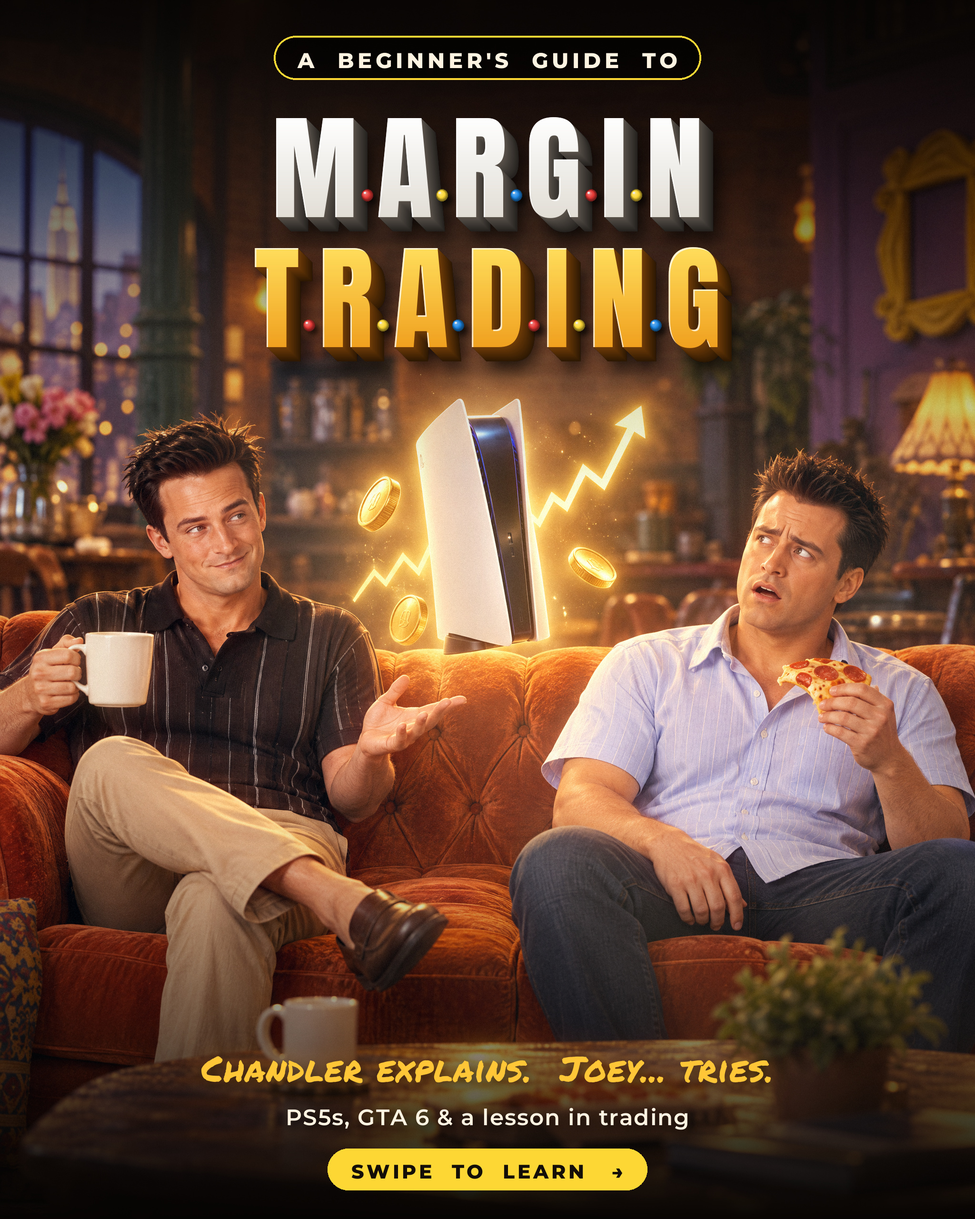
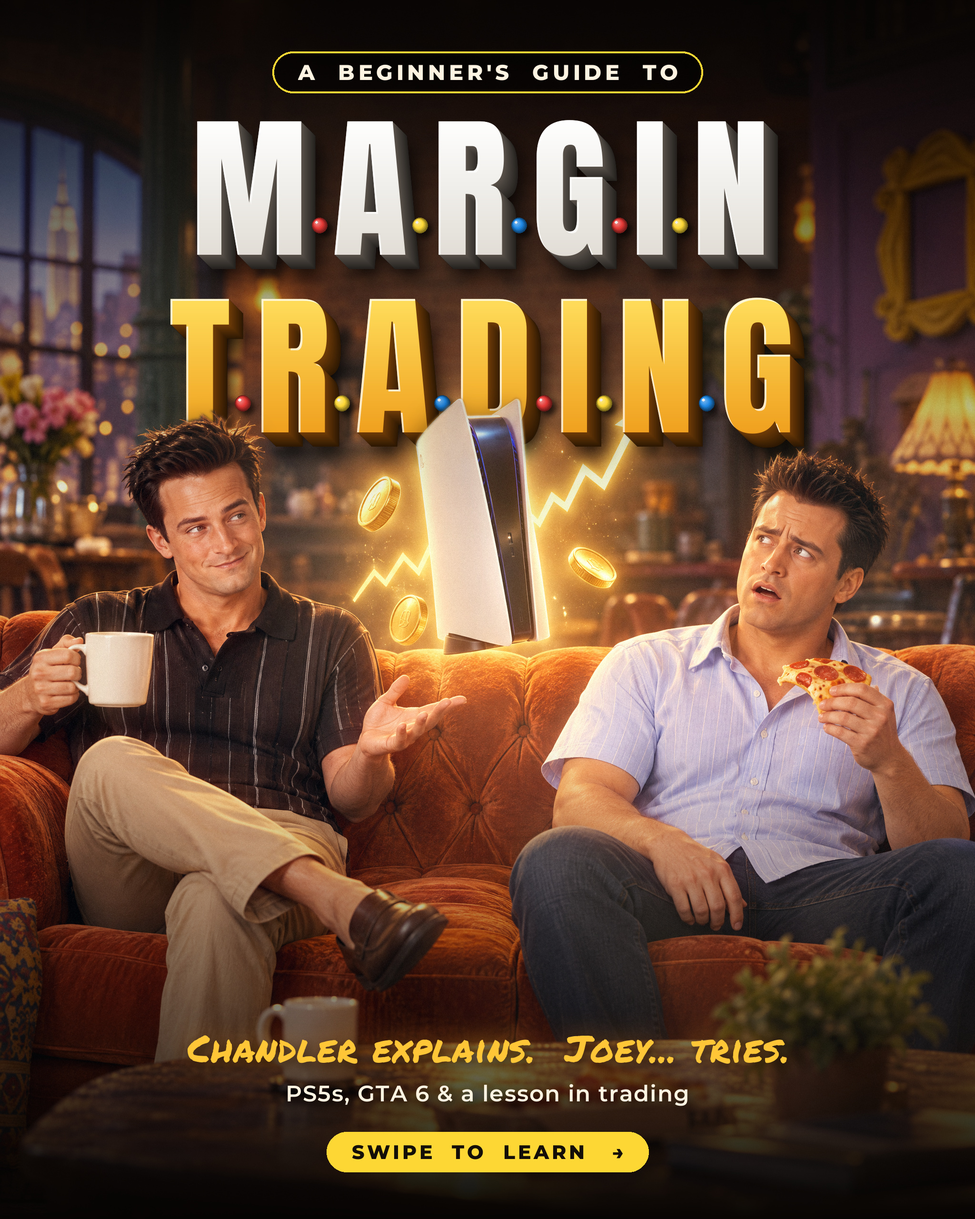
Cover: masking text behind subject and ink-based alignment
Subject cut-out (BiRefNet via rembg) is composited over the headline so
the console overlaps TRADING; all text is centred on its ink box,
headline auto-fits between equal top/bottom margins, overlap-checked.

Claude-Session: https://claude.ai/code/session_01Kuiw8abgmRFhLJw1mYsYfK

diff --git a/carousel/finish.py b/carousel/finish.py
@@ -98,11 +98,27 @@ def scrims(img: Image.Image, top_frac=0.40, top_alpha=235, bot_frac=0.34, bot_al
 
 
 # ----------------------------------------------------------------- text
+def subject_mask(raw_path):
+    """Foreground (characters + props) mask, cached next to the raw render."""
+    raw_path = Path(raw_path)
+    cache = raw_path.with_name(raw_path.stem + "_mask.png")
+    if not cache.exists():
+        from rembg import new_session, remove
+        im = Image.open(raw_path).convert("RGB")
+        remove(im, session=new_session("birefnet-general"), only_mask=True).save(cache)
+    return Image.open(cache).convert("L")
+
+
 class Canvas:
-    def __init__(self, img):
-        self.base = img.convert("RGBA")
-        self.W, self.H = self.base.size
+    """Two text planes: `behind` (occluded by the subject = masking text) and `front`."""
+
+    def __init__(self, img, subject=None):
+        self.bg = img.convert("RGBA")
+        self.W, self.H = self.bg.size
         self.s = self.W / 1080  # design grid is 1080 wide
+        self.behind = Image.new("RGBA", self.bg.size, (0, 0, 0, 0))
+        self.front = Image.new("RGBA", self.bg.size, (0, 0, 0, 0))
+        self.subject = subject
         self.boxes = []  # placed text boxes, to assert no overlaps
 
     def font(self, path, size, wght=None):
@@ -117,99 +133,112 @@ class Canvas:
                 raise RuntimeError(f"text overlap: {label!r} hits {l!r}")
         self.boxes.append((box, label))
 
-    def _paste(self, layer):
-        self.base = Image.alpha_composite(self.base, layer)
+    def _paste(self, layer, plane):
+        setattr(self, plane, Image.alpha_composite(getattr(self, plane), layer))
 
-    # -- flat text with soft shadow ---------------------------------
-    def text(self, y, txt, font, fill, tracking=0, shadow=0.8, label=None, glow=None):
-        W, s = self.W, self.s
-        widths = [font.getlength(c) for c in txt]
-        total = sum(widths) + tracking * (len(txt) - 1)
-        x0 = (W - total) / 2
-        lay = Image.new("RGBA", self.base.size, (0, 0, 0, 0))
-        d = ImageDraw.Draw(lay)
-        x = x0
-        for c, w in zip(txt, widths):
-            d.text((x, y), c, font=font, fill=fill)
-            x += w + tracking
-        bbox = lay.getbbox()
-        self._claim(bbox, label or txt)
-        a = lay.getchannel("A")
-        if shadow:
-            sh = Image.new("RGBA", self.base.size, (0, 0, 0, 0))
-            sh.putalpha(a.filter(ImageFilter.GaussianBlur(6 * s)).point(lambda v: int(v * shadow)))
-            sh = ImageChops.offset(sh, int(3 * s), int(4 * s))
-            self._paste(sh)
-        if glow:
-            gl = Image.new("RGBA", self.base.size, glow + (0,))
-            gl.putalpha(a.filter(ImageFilter.GaussianBlur(14 * s)).point(lambda v: int(v * 0.55)))
-            self._paste(gl)
-        self._paste(lay)
-        return bbox
+    def _shift(self, im, dx, dy):
+        out = Image.new(im.mode, im.size, 0)
+        out.paste(im, (int(round(dx)), int(round(dy))))
+        return out
 
-    # -- extruded 3D headline ---------------------------------------
-    def title3d(self, y, txt, font, face_top, face_bot, side, tracking=0, dots=True,
-                depth=16, label=None):
-        W, s = self.W, self.s
-        dot_gap = font.size * 0.15 if dots else 0
-        widths = [font.getlength(c) for c in txt]
-        total = sum(widths) + (len(txt) - 1) * (tracking + dot_gap)
-        x = (W - total) / 2
-        mask = Image.new("L", self.base.size, 0)
-        dm = ImageDraw.Draw(mask)
-        dot_specs = []
+    def _glyph_mask(self, txt, font, tracking, dot_gap=0, dots=False):
+        """Render text at origin; return mask, dot centres, ink bbox."""
+        m = Image.new("L", self.bg.size, 0)
+        d = ImageDraw.Draw(m)
+        x, specs = 0.0, []
         asc, _ = font.getmetrics()
-        for i, (c, w) in enumerate(zip(txt, widths)):
-            dm.text((x, y), c, font=font, fill=255)
-            x += w
+        pad = self.H * 0.25  # keep ascenders inside the canvas
+        for i, c in enumerate(txt):
+            d.text((x, pad), c, font=font, fill=255)
+            x += font.getlength(c)
             if i < len(txt) - 1:
                 if dots and c != " " and txt[i + 1] != " ":
-                    dot_specs.append((x + (tracking + dot_gap) / 2, y + asc * 0.84, DOTS[i % 3]))
+                    specs.append([x + (tracking + dot_gap) / 2, pad + asc * 0.84, DOTS[i % 3]])
                 x += tracking + dot_gap
-        bbox = mask.getbbox()
+        return m, specs, m.getbbox()
+
+    # -- measuring helpers (for layout) ------------------------------
+    def ink_height(self, txt, font, tracking=0):
+        _, _, b = self._glyph_mask(txt, font, tracking)
+        return b[3] - b[1]
+
+    # -- flat text with soft shadow ---------------------------------
+    def text(self, top, txt, font, fill, tracking=0, shadow=0.85, label=None, glow=None,
+             plane="front"):
+        """Draw text whose INK top sits at `top`, centred on its ink box."""
+        s = self.s
+        m, _, b = self._glyph_mask(txt, font, tracking)
+        dx = (self.W - (b[2] - b[0])) / 2 - b[0]
+        dy = top - b[1]
+        m = self._shift(m, dx, dy)
+        box = m.getbbox()
+        self._claim(box, label or txt)
+        if shadow:
+            sh = Image.new("RGBA", self.bg.size, (0, 0, 0, 0))
+            sh.putalpha(self._shift(m, 3 * s, 4 * s).filter(ImageFilter.GaussianBlur(6 * s))
+                        .point(lambda v: int(v * shadow)))
+            self._paste(sh, plane)
+        if glow:
+            gl = Image.new("RGBA", self.bg.size, glow + (0,))
+            gl.putalpha(m.filter(ImageFilter.GaussianBlur(14 * s)).point(lambda v: int(v * 0.5)))
+            self._paste(gl, plane)
+        face = Image.new("RGBA", self.bg.size, fill + (0,))
+        face.putalpha(m)
+        self._paste(face, plane)
+        return box
+
+    # -- extruded 3D headline ---------------------------------------
+    def title3d(self, top, txt, font, face_top, face_bot, side, tracking=0, dots=True,
+                depth=16, label=None, plane="behind"):
+        """3D headline: face ink top at `top`; face+extrusion mass centred horizontally."""
+        W, s = self.W, self.s
+        dot_gap = font.size * 0.15 if dots else 0
+        mask, specs, b = self._glyph_mask(txt, font, tracking, dot_gap, dots)
         dep = int(depth * s)
+        dx = (W - (b[2] - b[0] + dep)) / 2 - b[0]
+        dy = top - b[1]
+        mask = self._shift(mask, dx, dy)
+        for sp in specs:
+            sp[0] += dx
+            sp[1] += dy
+        bbox = mask.getbbox()
         self._claim((bbox[0], bbox[1], bbox[2] + dep, bbox[3] + dep), label or txt)
 
-        # Ground shadow
-        sh = Image.new("RGBA", self.base.size, (0, 0, 0, 0))
-        sh.putalpha(ImageChops.offset(mask, int(dep * 1.2), int(dep * 1.6))
+        sh = Image.new("RGBA", self.bg.size, (0, 0, 0, 0))
+        sh.putalpha(self._shift(mask, dep * 1.2, dep * 1.6)
                     .filter(ImageFilter.GaussianBlur(10 * s)).point(lambda v: int(v * 0.85)))
-        self._paste(sh)
+        self._paste(sh, plane)
 
-        # Extrusion: stacked offset copies, darkening towards the back
-        ext = Image.new("RGBA", self.base.size, (0, 0, 0, 0))
+        ext = Image.new("RGBA", self.bg.size, (0, 0, 0, 0))
         for k in range(dep, 0, -1):
             t = k / dep
             col = tuple(int(c * (0.30 + 0.45 * (1 - t))) for c in side) + (255,)
-            ext.paste(Image.new("RGBA", self.base.size, col), (0, 0), ImageChops.offset(mask, k, k))
-        self._paste(ext)
+            ext.paste(Image.new("RGBA", self.bg.size, col), (0, 0), self._shift(mask, k, k))
+        self._paste(ext, plane)
 
-        # Face: vertical gradient
-        top, bot = bbox[1], bbox[3]
+        top_y, bot_y = bbox[1], bbox[3]
         grad = np.zeros((self.H, 1, 3), np.float32)
-        yy = np.clip((np.arange(self.H) - top) / max(1, bot - top), 0, 1)[:, None]
+        yy = np.clip((np.arange(self.H) - top_y) / max(1, bot_y - top_y), 0, 1)[:, None]
         grad[:, 0, :] = np.array(face_top) * (1 - yy) + np.array(face_bot) * yy
         face = Image.fromarray(np.repeat(grad, W, 1).astype(np.uint8)).convert("RGBA")
         face.putalpha(mask)
-        self._paste(face)
+        self._paste(face, plane)
 
-        # Bevel highlight on the top-left edges
-        edge = ImageChops.subtract(mask, ImageChops.offset(mask, int(2 * s), int(2 * s)))
-        hl = Image.new("RGBA", self.base.size, (255, 255, 255, 0))
+        edge = ImageChops.subtract(mask, self._shift(mask, 2 * s, 2 * s))
+        hl = Image.new("RGBA", self.bg.size, (255, 255, 255, 0))
         hl.putalpha(edge.point(lambda v: int(v * 0.75)))
-        self._paste(hl)
+        self._paste(hl, plane)
 
-        # Glossy 3D sphere dots
-        lay = Image.new("RGBA", self.base.size, (0, 0, 0, 0))
+        # Glossy sphere dots
+        lay = Image.new("RGBA", self.bg.size, (0, 0, 0, 0))
         d = ImageDraw.Draw(lay)
-        dsh = Image.new("RGBA", self.base.size, (0, 0, 0, 0))
+        dsh = Image.new("RGBA", self.bg.size, (0, 0, 0, 0))
         sd = ImageDraw.Draw(dsh)
         r = font.size * 0.05
-        for cx, cy, col in dot_specs:
+        for cx, cy, col in specs:
             dark = tuple(int(c * 0.45) for c in col)
             o = dep * 0.3
             sd.ellipse([cx - r + o, cy - r + o, cx + r + o, cy + r + o], fill=(0, 0, 0, 170))
-            # Shaded sphere: concentric discs drifting toward the top-left light
             steps = 14
             for k in range(steps):
                 t = k / (steps - 1)
@@ -223,59 +252,108 @@ class Canvas:
             hr = r * 0.16
             d.ellipse([cx - r * 0.42 - hr, cy - r * 0.42 - hr, cx - r * 0.42 + hr, cy - r * 0.42 + hr],
                       fill=(255, 255, 255, 235))
-        self._paste(dsh.filter(ImageFilter.GaussianBlur(3 * s)))
-        self._paste(lay)
-        return bbox
+        self._paste(dsh.filter(ImageFilter.GaussianBlur(3 * s)), plane)
+        self._paste(lay, plane)
+        return (bbox[0], bbox[1], bbox[2] + dep, bbox[3] + dep)
 
     # -- pill (rounded tag behind small text) -------------------------
-    def pill(self, y, txt, font, fg, bg, border, pad=(26, 12), tracking=0, label=None):
+    def pill(self, top, txt, font, fg, bg, border, pad=(28, 14), tracking=0, label=None,
+             plane="front"):
+        """Pill whose OUTER top is `top`; text optically centred inside by ink box."""
         s = self.s
-        w = sum(font.getlength(c) for c in txt) + tracking * (len(txt) - 1)
-        asc, desc = font.getmetrics()
+        m, _, b = self._glyph_mask(txt, font, tracking)
+        tw, th = b[2] - b[0], b[3] - b[1]
         pw, ph = pad[0] * s, pad[1] * s
-        x0 = (self.W - w) / 2 - pw
-        box = (int(x0), int(y), int(x0 + w + 2 * pw), int(y + asc + desc * 0.2 + 2 * ph))
+        box = (round((self.W - tw) / 2 - pw), round(top),
+               round((self.W + tw) / 2 + pw), round(top + th + 2 * ph))
         self._claim(box, label or txt)
-        lay = Image.new("RGBA", self.base.size, (0, 0, 0, 0))
-        d = ImageDraw.Draw(lay)
-        d.rounded_rectangle(box, radius=(box[3] - box[1]) / 2, fill=bg, outline=border, width=max(2, int(2.5 * s)))
-        x = x0 + pw
-        for c in txt:
-            d.text((x, y + ph), c, font=font, fill=fg)
-            x += font.getlength(c) + tracking
-        self._paste(lay)
-        self.boxes.pop()  # text drawn inside the pill shares its box
-        self.boxes.append((box, label or txt))
+        lay = Image.new("RGBA", self.bg.size, (0, 0, 0, 0))
+        ImageDraw.Draw(lay).rounded_rectangle(box, radius=(box[3] - box[1]) / 2, fill=bg,
+                                              outline=border, width=max(2, int(2.5 * s)))
+        self._paste(lay, plane)
+        m = self._shift(m, (self.W - tw) / 2 - b[0], top + ph - b[1])
+        face = Image.new("RGBA", self.bg.size, fg + (0,))
+        face.putalpha(m)
+        self._paste(face, plane)
         return box
 
+    def render(self):
+        out = Image.alpha_composite(self.bg, self.behind)
+        if self.subject is not None:
+            s = self.s
+            # Soft contact shadow of the subject falling onto the masked text
+            text_a = np.asarray(self.behind.getchannel("A"), np.float32) / 255
+            sub = self._shift(self.subject, -6 * s, 10 * s).filter(ImageFilter.GaussianBlur(14 * s))
+            sh_a = (np.asarray(sub, np.float32) / 255) * text_a * 0.55
+            sh = Image.new("RGBA", self.bg.size, (0, 0, 0, 0))
+            sh.putalpha(Image.fromarray((sh_a * 255).astype(np.uint8)))
+            out = Image.alpha_composite(out, sh)
+            # Subject back on top of the text (feathered edge)
+            fg = self.bg.copy()
+            fg.putalpha(self.subject.filter(ImageFilter.GaussianBlur(1.2 * s)))
+            out = Image.alpha_composite(out, fg)
+        return Image.alpha_composite(out, self.front)
+
     def save(self, out):
-        self.base.convert("RGB").save(out, quality=95, subsampling=0)
+        self.render().convert("RGB").save(out, quality=95, subsampling=0)
 
 
 # ----------------------------------------------------------------- slides
 def cover(raw, out):
-    img = Image.open(raw)
-    img = grade(img)
-    img = scrims(img, top_frac=0.42, top_alpha=240, bot_frac=0.34, bot_alpha=252)
-    c = Canvas(img)
-    s, H = c.s, c.H
+    subject = subject_mask(raw)
+    img = grade(Image.open(raw))
+    img = scrims(img, top_frac=0.46, top_alpha=240, bot_frac=0.40, bot_alpha=252)
+    c = Canvas(img, subject)
+    s, W, H = c.s, c.W, c.H
 
-    c.pill(40 * s, "A  BEGINNER'S  GUIDE  TO", c.font(MONT, 24, 800),
-           fg=CREAM, bg=(0, 0, 0, 150), border=YELLOW + (255,), tracking=4 * s, label="kicker")
-    c.title3d(90 * s, "MARGIN", c.font(ANTON, 128), face_top=(255, 255, 255),
-              face_bot=(226, 222, 214), side=(120, 110, 100), tracking=2 * s)
-    c.title3d(234 * s, "TRADING", c.font(ANTON, 128), face_top=(255, 222, 92),
-              face_bot=(240, 160, 30), side=(150, 80, 10), tracking=2 * s)
+    f_kick = c.font(MONT, 24, 800)
+    DEPTH = 16
+    gap = 30 * s  # identical rhythm between stacked headline rows
+    TOP_MARGIN = 56 * s
 
-    # Bottom block, over the black gradient
-    c.text(H - 196 * s, "Chandler explains.  Joey... tries.", c.font(MARKER, 40), GOLD,
-           tracking=0.5 * s, label="tagline", glow=(255, 150, 40))
-    c.text(H - 128 * s, "PS5s, GTA 6 & a lesson in trading", c.font(MONT, 25, 600), CREAM,
-           tracking=1 * s, label="sub")
-    c.pill(H - 78 * s, "SWIPE  TO  LEARN   →", c.font(MONT, 22, 800),
-           fg=(20, 14, 8), bg=YELLOW + (255,), border=YELLOW + (255,), tracking=3 * s, label="swipe")
+    # Subject top = highest foreground pixel in the centre band
+    sub_np = np.asarray(subject) > 128
+    rows = np.where(sub_np[:, int(W * 0.25):int(W * 0.75)].any(1))[0]
+    subject_top = rows[0]
+    kicker_h = c.ink_height("A BEGINNER'S GUIDE TO", f_kick) + 2 * 14 * s
+
+    # Auto-fit: largest headline whose stack fits between the top margin and the
+    # subject (subject covers the lower ~26% of TRADING = masking text), and whose
+    # width keeps a 72px side margin.
+    for size in range(190, 100, -2):
+        f_title = c.font(ANTON, size)
+        cap = c.ink_height("TRADING", f_title, 2 * s)
+        trading_top = subject_top - cap * 0.74
+        margin_top = trading_top - DEPTH * s - gap - cap
+        kicker_top = margin_top - gap - kicker_h
+        m, _, b = c._glyph_mask("TRADING", f_title, 2 * s, f_title.size * 0.15, True)
+        wide = (b[2] - b[0]) + DEPTH * s
+        if kicker_top >= TOP_MARGIN and wide <= W - 2 * 72 * s:
+            break
+    print("title size", size)
+
+    c.pill(kicker_top, "A  BEGINNER'S  GUIDE  TO", f_kick, fg=CREAM, bg=(0, 0, 0, 150),
+           border=YELLOW + (255,), tracking=4 * s, label="kicker")
+    c.title3d(margin_top, "MARGIN", f_title, face_top=(255, 255, 255),
+              face_bot=(226, 222, 214), side=(120, 110, 100), tracking=2 * s, depth=DEPTH)
+    c.title3d(trading_top, "TRADING", f_title, face_top=(255, 222, 92),
+              face_bot=(240, 160, 30), side=(150, 80, 10), tracking=2 * s, depth=DEPTH)
+
+    # Bottom block, built upward from a fixed bottom margin over the black gradient
+    f_sw, f_sub, f_tag = c.font(MONT, 22, 800), c.font(MONT, 25, 600), c.font(MARKER, 42)
+    bottom_margin, row_gap = 52 * s, 22 * s
+    sw_h = c.ink_height("SWIPE TO LEARN", f_sw) + 2 * 14 * s
+    sw_top = H - bottom_margin - sw_h
+    sub_top = sw_top - row_gap * 1.3 - c.ink_height("PS5s, GTA 6 & a lesson in trading", f_sub)
+    tag_top = sub_top - row_gap - c.ink_height("Chandler explains.  Joey... tries.", f_tag)
+
+    c.text(tag_top, "Chandler explains.  Joey... tries.", f_tag, GOLD, tracking=0.5 * s,
+           label="tagline", glow=(255, 150, 40))
+    c.text(sub_top, "PS5s, GTA 6 & a lesson in trading", f_sub, CREAM, tracking=1 * s, label="sub")
+    c.pill(sw_top, "SWIPE  TO  LEARN   \u2192", f_sw, fg=(20, 14, 8), bg=YELLOW + (255,),
+           border=YELLOW + (255,), tracking=3 * s, label="swipe")
     c.save(out)
-    print("saved", out, c.base.size)
+    print("saved", out, c.bg.size, "| subject top", subject_top, "| kicker top", round(kicker_top))
 
 
 if __name__ == "__main__":
